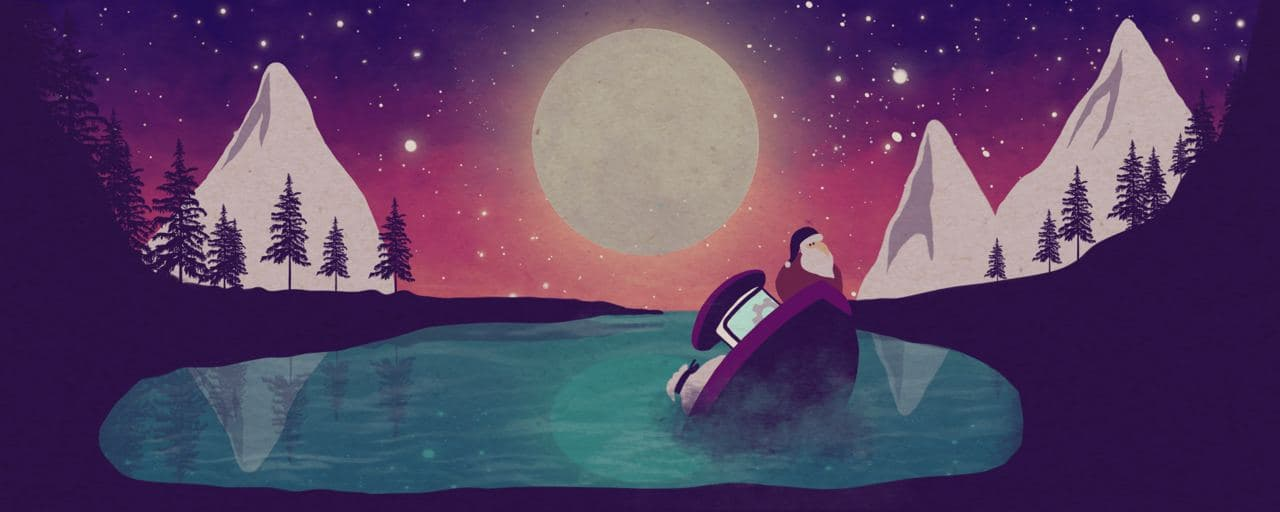
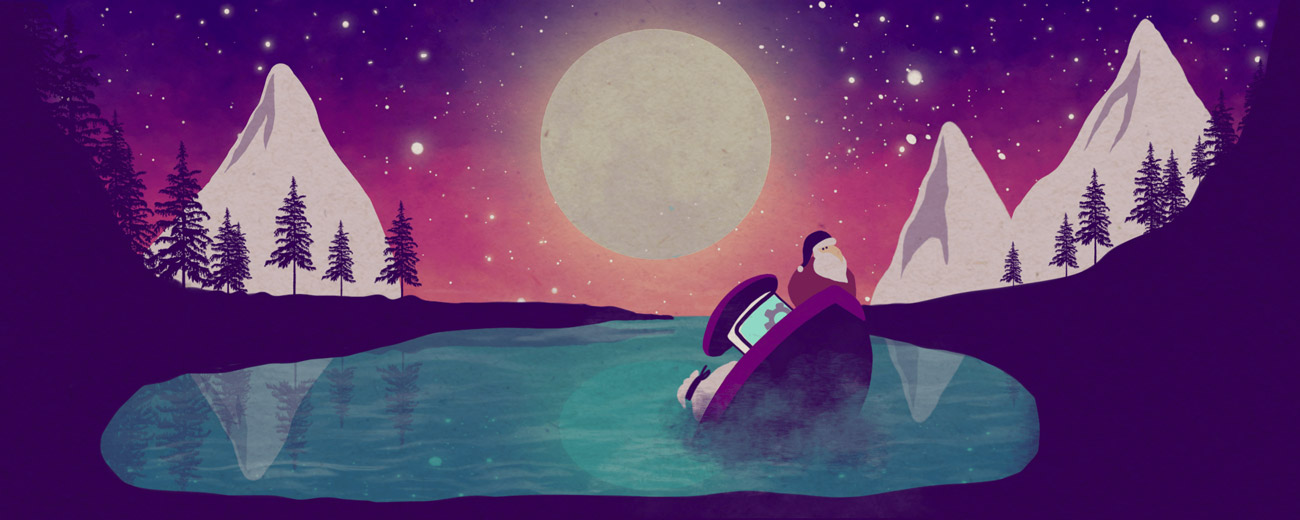
Image finale pour le header

diff --git a/style.css b/style.css
@@ -2392,8 +2392,8 @@ body.admin-bar :target {
 
 .home--2021 .hero {
 	margin-bottom: 2rem;
-	background: transparent url(images/header/2021/background.jpg) no-repeat center
-		top;
+	background: transparent url(images/header/2021/background.jpg) no-repeat
+		center top;
 }
 
 .home--2021 .hero-content {
@@ -2404,6 +2404,34 @@ body.admin-bar :target {
 .home--2021 .hero-logo img {
 	width: 12rem;
 	height: 4.5rem;
+	transform: translateX(0.4rem);
+}
+
+@media only screen and (max-width: 31.25em) {
+	.home--2021 .hero {
+		margin-bottom: 1rem;
+		background-size: 800px;
+	}
+
+	.home--2021 .hero-content {
+		padding-top: 2.5rem;
+		min-height: 20rem;
+	}
+
+	.home--2021 .hero-logo img {
+		width: 8rem;
+		height: 6.75rem;
+	}
+}
+
+@media only screen and (max-width: 20em) {
+	.home--2021 .hero {
+		background-position: -320px;
+	}
+
+	.home--2021 .hero-logo img {
+		margin-left: 1rem;
+	}
 }
 
 .home--2021 .calendar {
